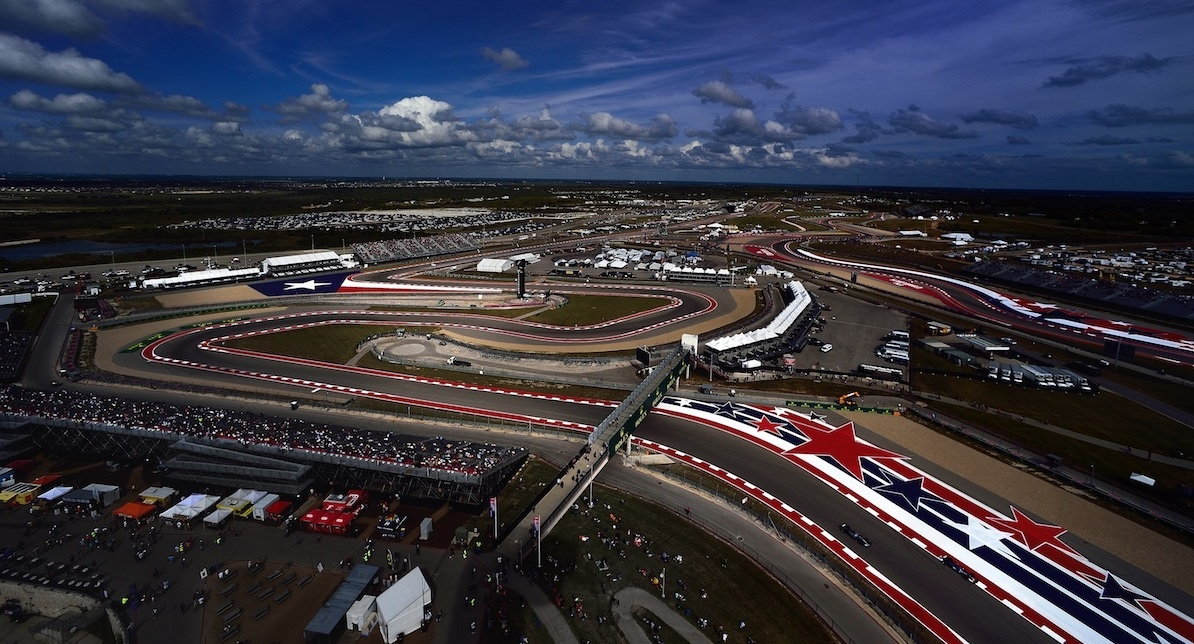
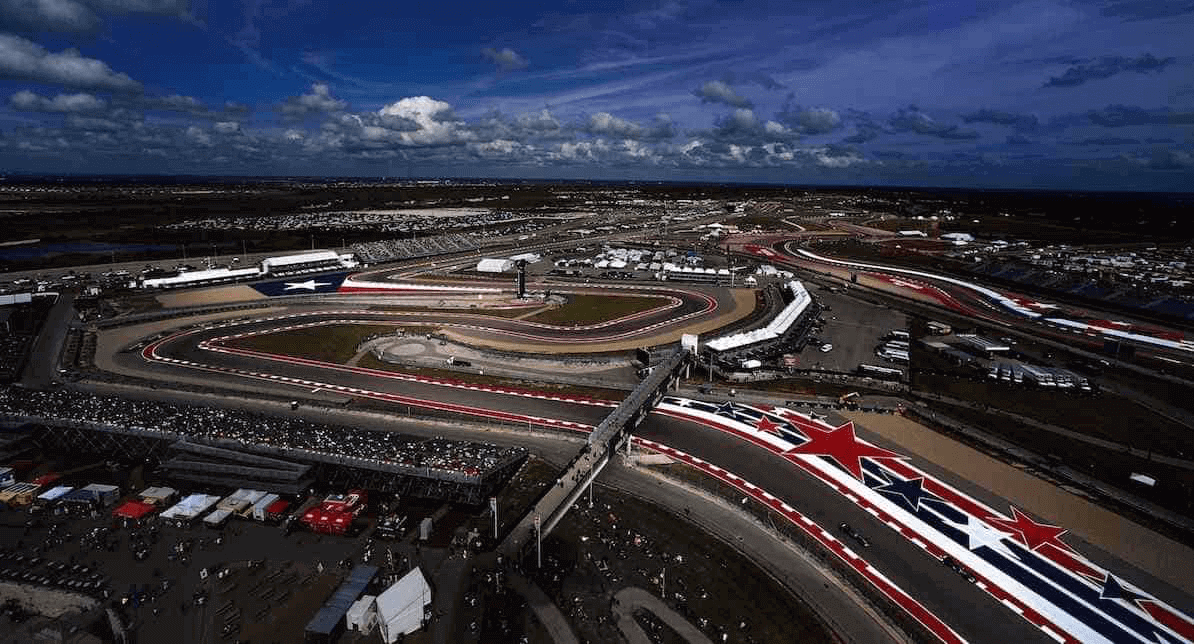
chore: compress images

diff --git a/packages/components/Card/Card.tsx b/packages/components/Card/Card.tsx
@@ -36,6 +36,7 @@ export const Card = ({ race }: CardProps) => {
           alt={race.circuitId}
           className={styles.image}
           layout="fill"
+          objectFit="cover"
         />
       </div>
 

diff --git a/next.config.js b/next.config.js
@@ -1,6 +1,10 @@
 /** @type {import('next').NextConfig} */
 const nextConfig = {
   reactStrictMode: true,
+  i18n: {
+    locales: ['en'],
+    defaultLocale: 'en',
+  },
 };
 
 module.exports = nextConfig;
